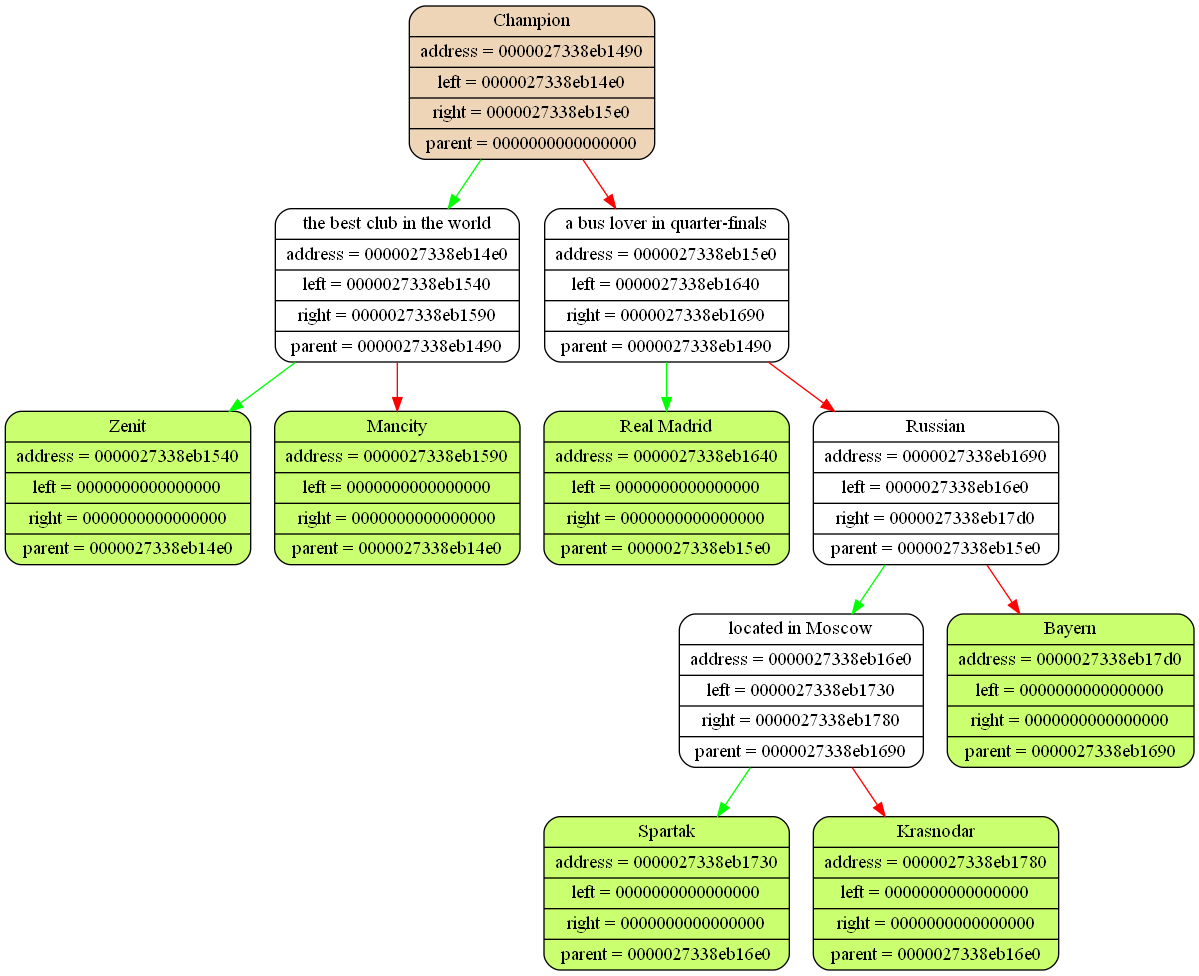
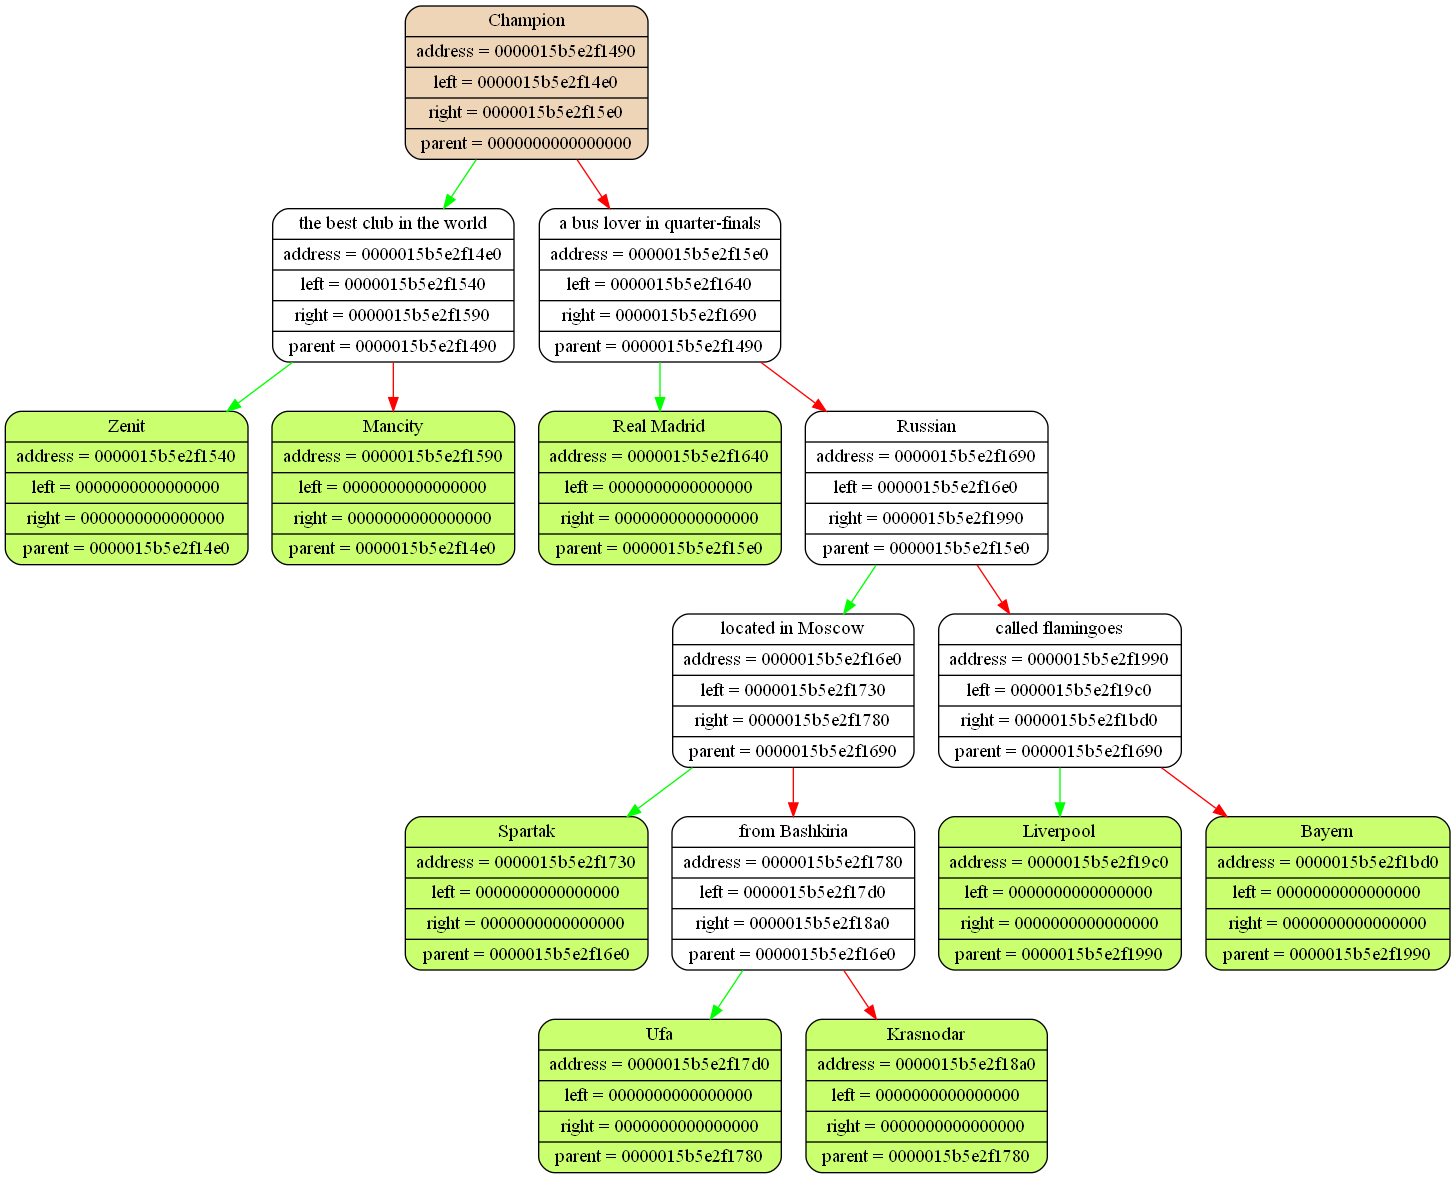
Chosing mode, making new nodes

diff --git a/AkinatorFunctions.cpp b/AkinatorFunctions.cpp
@@ -45,7 +45,56 @@ Node_t* ReadTree(Node_t* parent, FILE* file_ptr)
     return NULL;
 }
 
-int Guess(Node_t* node)
+int Run(Node_t* root, const char** argv)
+{
+    printf("Choose mode:\n  if you want to play enter \"p\"\n  if you want to visualize the tree enter \"v\"\n  "
+           "if you want to get a definition enter \"d\"\n");
+
+    int mode = getchar();
+
+    switch(mode)
+    {
+        case PLAY:
+        {
+            Guess(root, root, argv[1]);
+            break;
+        }
+
+        case VISUALIZE:
+        {
+            DrawTree(root, argv[2]);
+            break;
+        }
+
+        case DEFINITION:
+        {
+            char term[MAX_STRING_SIZE] = {};
+            Definition(root, GetTerm(term));
+
+            break;
+        }
+
+        default:
+        {
+            fprintf(stderr, "Error: wrong mode: \"%c\"! Try again!\n", mode);
+
+            return Run(root, argv);
+        }
+    }
+
+    return 0;
+}
+
+char* GetTerm(char* term)
+{
+    printf("Enter the term\n");
+
+    scanf("\n%[^\n]", term);
+
+    return term;
+}
+
+int Guess(Node_t* root, Node_t* node, const char* data_file_name)
 {
     if (!node)
     {
@@ -67,7 +116,7 @@ int Guess(Node_t* node)
             return 0;
         }
 
-        return Guess(node->left);
+        return Guess(root, node->left, data_file_name);
     }
 
     if (stricmp(answer, "no") == 0)
@@ -88,14 +137,86 @@ int Guess(Node_t* node)
                 return 0;
             }
 
+            CreateNode(root, node, data_file_name);
 
+            return 0;
         }
-        return Guess(node->right);
+        return Guess(root, node->right, data_file_name);
     }
 
     fprintf(stderr, "Wrong answer: %s!\n", answer);
     //while (int c = getchar() != 0 && c != EOF) {}
-    return Guess(node);
+    return Guess(root, node, data_file_name);
+}
+
+int CreateNode(Node_t* root, Node_t* node, const char* data_file_name)
+{
+    assert(node);
+
+    printf("Who is it?\n");
+
+    char new_node_name[MAX_STRING_SIZE] = {};
+    char new_question [MAX_STRING_SIZE] = {};
+
+    scanf("\n%[^\n]", new_node_name);
+
+    printf("What is the difference between \"%s\" and \"%s\"? \"%s\" is ...\n",
+           new_node_name, node->data, new_node_name);
+
+    scanf("\n%[^\n]", new_question);
+
+    if (node->parent->left == node)
+    {
+        node->parent->left = NewNode(node->parent, new_question);
+
+        node->parent->left->right = node;
+
+        node->parent->left->left = NewNode(node->parent->left, new_node_name);
+
+        node->parent = node->parent->left;
+    }
+
+    if (node->parent->right == node)
+    {
+        node->parent->right = NewNode(node->parent, new_question);
+
+        node->parent->right->right = node;
+
+        node->parent->right->left = NewNode(node->parent->right, new_node_name);
+
+        node->parent = node->parent->right;
+    }
+
+    printf("Do you want to save the changes?\n");
+
+    char answer[MAX_STRING_SIZE] = {};
+
+    scanf("%s", answer);
+
+    if (stricmp(answer, "no") == 0) return 0;
+
+    FILE* file_ptr = fopen(data_file_name, "w");
+
+    PrintData(root, file_ptr);
+    fprintf(file_ptr, "\n");
+
+    fclose(file_ptr);
+
+    return 0;
+}
+
+int PrintData(Node_t* node, FILE* file_ptr)
+{
+    if (!node) return 0;
+
+    fprintf(file_ptr, "{\"%s\"", node->data);
+
+    PrintData(node->left,  file_ptr);
+    PrintData(node->right, file_ptr);
+
+    fprintf(file_ptr, "}");
+
+    return 0;
 }
 
 int Definition(Node_t* root, const char* elem)

diff --git a/AkinatorFunctions.h b/AkinatorFunctions.h
@@ -10,11 +10,22 @@
 const int MAX_STRING_SIZE = 52;
 const int DEF_ARR_SIZE    = 52;
 
+enum modes_t
+{
+    PLAY       = 'p',
+    VISUALIZE  = 'v',
+    DEFINITION = 'd'
+};
+
 Node_t* ReadTree   (Node_t* parent, FILE* file_ptr);
-int     Guess      (Node_t* node);
+int     Run        (Node_t* root, const char** argv);
+int     Guess      (Node_t* root, Node_t* node, const char* data_file_name);
+int     CreateNode (Node_t* root, Node_t* node, const char* data_file_name);
+int     PrintData  (Node_t* node, FILE* file_ptr);
 int     DrawTree   (Node_t* root, const char* file_name);
 int     DrawNode   (Node_t* node, FILE* file_ptr);
 int     Definition (Node_t* root, const char* elem);
 int     MakeDef    (Node_t* node, const char* elem, char definition[DEF_ARR_SIZE][MAX_STRING_SIZE]);
+char*   GetTerm    (char* term);
 
 #endif

diff --git a/main.cpp b/main.cpp
@@ -19,13 +19,17 @@ int main(const int argc, const char** argv)
 
     assert(root);
 
+    Run(root, argv);
+
     //Print_inorder(root, stderr);
-
-    Guess(root);
-
     //DrawTree(root, argv[2]);
 
-    //Definition(root, "Zenit");
+    //Guess(root, root, argv[1]);
+
+
+    //Guess(root, root, argv[1]);
+
+    //Definition(root, "Liverpool");
 
     TreeDtor(root);
 
